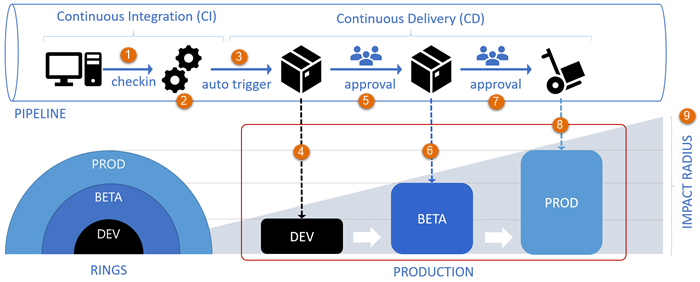
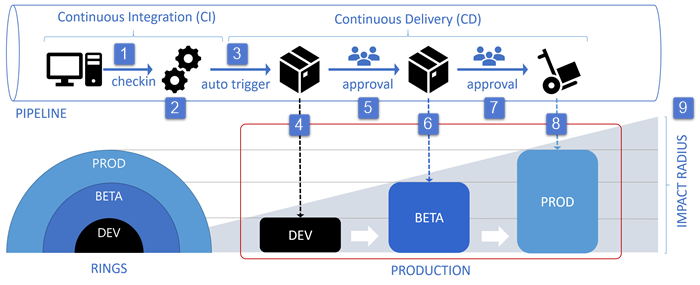
Align images with authoring guidelines

diff --git a/src/DevOps/phase-rollout-with-rings.md b/src/DevOps/phase-rollout-with-rings.md
@@ -110,7 +110,7 @@ To detect and mitigate issues, learn from tracking usage, "test in production", 
 
 Here are a few examples of visual dashboards we use to "spot" the anomalies, the unexpected, and the overall health of our pipelines within the ring deployment model.
 
-Using the [Team Project Health](https://marketplace.visualstudio.com/items?itemName=ms-devlabs.TeamProjectHealth) and out-of-the-box extensions extension we have an overview of our pipeline builds and releases, as well as lead and cycle time trends. It's evident that we have 34 successful builds, 12 successful releases, and 12 releases in progress.
+Using the [Team Project Health](https://marketplace.visualstudio.com/items?itemName=ms-devlabs.TeamProjectHealth) and out-of-the-box extensions extension we have an overview of our pipeline builds and releases, as well as lead and cycle time trends. It's evident that we have 33 successful builds, 1 failed build, 12 successful releases, and 12 releases in progress.
 
 ![High-level dashboard on VSTS](./_img/phase-rollout-with-rings/phase-rollout-with-rings-dash.png)
 
